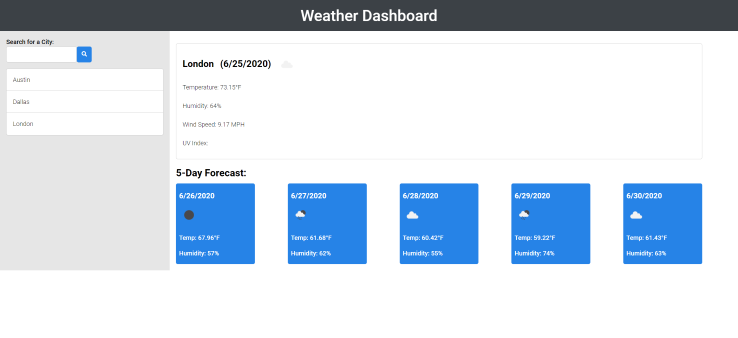
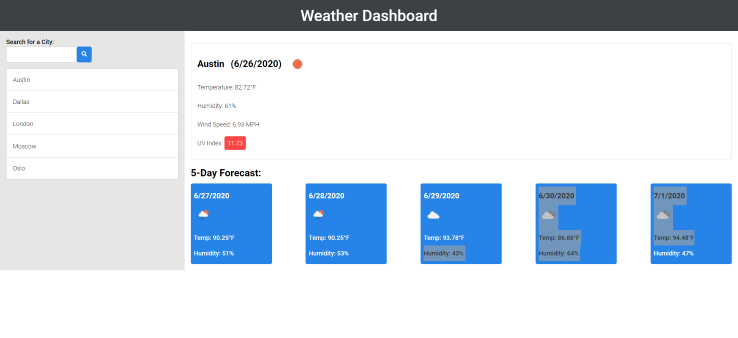
fixed padding issue on col-lg-3 and col-lg-9

Changed region(s): [[0.0, 0.0888, 0.9973, 0.7988]]

diff --git a/assets/css/style.css b/assets/css/style.css
@@ -204,10 +204,10 @@ header h1 {
 	}
 
 	.col-lg-3 {
-		flex: 0 0 calc(100% * 3 / 12 - 2%);
+		flex: 0 0 calc(100% * 3 / 12);
 	}
 
 	.col-lg-9 {
-		flex: 0 0 calc(100% * 9 / 12 - 2%);
+		flex: 0 0 calc(100% * 9 / 12);
 	}
 }
